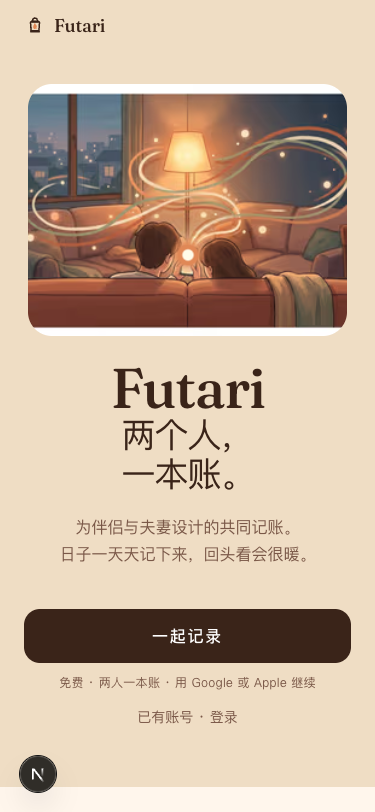
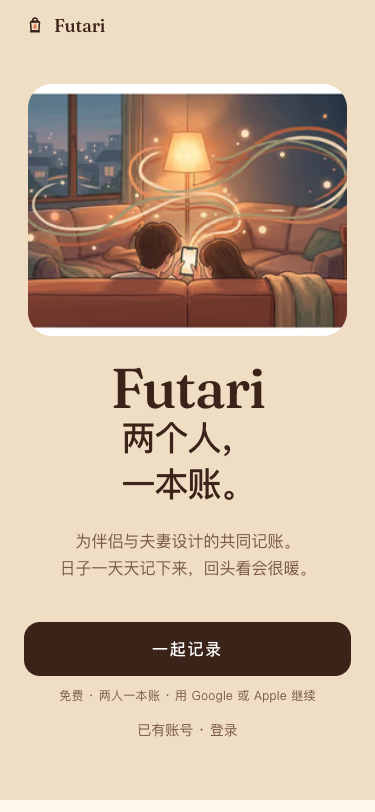
fix(design): 首頁、記帳首頁的襯線標題也套中日文字重和行高 (#1849)
這些標題的字型寫在 inline style，沒有 .font-serif，原本的規則對不到。
新增 .cjk-h（不放 layer，蓋得過 leading-*／font-* utility），斷行規則
也一起套。首頁 tagline 的 400／1.15 從 inline 搬到 class，en 不變。
擋渲染 CSS gzip +27 B。

diff --git a/app/[locale]/_landing/Landing.tsx b/app/[locale]/_landing/Landing.tsx
@@ -175,7 +175,7 @@ export function Landing({ t, signInHref, dashboardHref, androidBetaHref, checkin
             </p>
 
             <h1
-              className="m-0 leading-none md:leading-[1]"
+              className="cjk-h m-0 leading-none md:leading-[1]"
               style={{
                 fontFamily: 'var(--font-fraunces)',
                 fontWeight: 500,
@@ -188,17 +188,15 @@ export function Landing({ t, signInHref, dashboardHref, androidBetaHref, checkin
                   even though per-character it's smaller; lh 1.15 keeps
                   the block tight, letter-spacing -1px tightens CJK rhythm. */}
               <span
-                className="ph md:hidden block text-display-tagline"
+                className="cjk-h ph md:hidden block text-display-tagline font-normal leading-[1.15]"
                 style={{
-                  fontWeight: 400,
-                  lineHeight: 1.15,
                   letterSpacing: '-1px',
                 }}
                 dangerouslySetInnerHTML={{ __html: phraseHtml(t.taglineHtml) }}
               />
               {/* desktop: tagline as the giant headline */}
               <span
-                className="ph hidden md:inline text-display-tagline-lg"
+                className="cjk-h ph hidden md:inline text-display-tagline-lg"
                 style={{
                   letterSpacing: '-3.5px',
                 }}
@@ -323,7 +321,7 @@ export function Landing({ t, signInHref, dashboardHref, androidBetaHref, checkin
                 {t.featuresKicker}
               </p>
               <h2
-                className="m-0 mt-1.5 text-xl md:text-page"
+                className="cjk-h m-0 mt-1.5 text-xl md:text-page"
                 style={{
                   fontFamily: 'var(--font-fraunces)',
                   fontWeight: 500,
@@ -499,7 +497,7 @@ function MigrateLinksSection({
               {t.migrateSection.kicker}
             </p>
             <h2
-              className="m-0 mt-1.5 text-xl md:text-page"
+              className="cjk-h m-0 mt-1.5 text-xl md:text-page"
               style={{
                 fontFamily: 'var(--font-fraunces)',
                 fontWeight: 500,
@@ -625,7 +623,7 @@ function UseCaseLinksSection({
               {t.useCaseSection.kicker}
             </p>
             <h2
-              className="m-0 mt-1.5 text-xl md:text-page"
+              className="cjk-h m-0 mt-1.5 text-xl md:text-page"
               style={{
                 fontFamily: 'var(--font-fraunces)',
                 fontWeight: 500,

diff --git a/tests/cjk-serif-fallback.test.ts b/tests/cjk-serif-fallback.test.ts
@@ -82,7 +82,28 @@ describe('CJK serif heading fallback stack (#1849)', () => {
       /@layer base\{:is\(h1,h2,h3\)\.font-serif:is\(:lang\(zh\),:lang\(ja\)\)\{font-weight:500;line-height:1\.35\}\}/,
     )
     expect(globalsCss).toMatch(
-      /:is\(\.brand,\.font-serif\):lang\(zh\),:is\(\.brand,\.font-serif\):lang\(ja\)\{line-break:strict;word-break:auto-phrase;font-synthesis-style:none\}/,
+      /:is\(\.brand,\.font-serif,\.cjk-h\):is\(:lang\(zh\),:lang\(ja\)\)\{line-break:strict;word-break:auto-phrase;font-synthesis-style:none\}/,
     )
+  })
+
+  // Landing and dashboard serif titles set their font inline (no .font-serif),
+  // so they opt in with .cjk-h, which is unlayered to beat leading-*/font-*.
+  it('applies the CJK heading rule to inline-serif titles via unlayered .cjk-h', () => {
+    expect(globalsCss).toMatch(/\n\.cjk-h:is\(:lang\(zh\),:lang\(ja\)\)\{font-weight:500;line-height:1\.35\}/)
+    const uses: Array<[string, number]> = [
+      ['app/[locale]/_landing/Landing.tsx', 6],
+      ['app/(dashboard)/dashboard/_components/WelcomeSoloCard.tsx', 1],
+      ['app/(dashboard)/dashboard/_components/AndroidBetaInviteCard.tsx', 1],
+      ['app/(dashboard)/dashboard/_components/PartnerLeftCard.tsx', 1],
+      ['app/(dashboard)/dashboard/_components/ActiveTripBanner.tsx', 1],
+    ]
+    for (const [file, n] of uses) {
+      const src = readFileSync(join(REPO_ROOT, file), 'utf8')
+      expect(src.match(/className="cjk-h /g)?.length, file).toBe(n)
+    }
+    // The landing tagline's 400 / 1.15 moved from inline style to classes so
+    // CJK can override it; en still renders 400 / 1.15.
+    const landing = readFileSync(join(REPO_ROOT, 'app/[locale]/_landing/Landing.tsx'), 'utf8')
+    expect(landing).toContain('text-display-tagline font-normal leading-[1.15]')
   })
 })

diff --git a/app/globals.css b/app/globals.css
@@ -377,8 +377,11 @@ body {
  * simulated mobile LCP from 2.47 s to 2.62 s: one extra round trip, no error,
  * no visual change. The same goes for the landing HTML (gzip ~29.1 KB). */
 @layer base{:is(h1,h2,h3).font-serif:is(:lang(zh),:lang(ja)){font-weight:500;line-height:1.35}}
+/* .cjk-h: serif titles whose font is set inline (landing, dashboard cards), so
+ * no .font-serif. Unlayered so it beats leading-* and font-* utilities. */
+.cjk-h:is(:lang(zh),:lang(ja)){font-weight:500;line-height:1.35}
 .brand{display:contents}
-:is(.brand,.font-serif):lang(zh),:is(.brand,.font-serif):lang(ja){line-break:strict;word-break:auto-phrase;font-synthesis-style:none}
+:is(.brand,.font-serif,.cjk-h):is(:lang(zh),:lang(ja)){line-break:strict;word-break:auto-phrase;font-synthesis-style:none}
 .brand :is(h1,h2,h3,dt,p,li,dd){text-wrap:balance}
 /* Kill the grey tap flash Android Chrome paints over tapped controls. (#713) */
 * { -webkit-tap-highlight-color: transparent; }

diff --git a/app/(dashboard)/dashboard/_components/ActiveTripBanner.tsx b/app/(dashboard)/dashboard/_components/ActiveTripBanner.tsx
@@ -171,7 +171,7 @@ export function ActiveTripBanner({ trips, baseCurrency }: Props) {
                 </div>
               </div>
               <div
-                className="mt-1.5 text-sm leading-relaxed truncate"
+                className="cjk-h mt-1.5 text-sm leading-relaxed truncate"
                 style={{ color: 'var(--ink)', fontFamily: 'var(--font-fraunces)', fontWeight: 500 }}
               >
                 {single ? single.name : pickPlural(locale, trips.length, tr.multipleHeading).replace('{count}', String(trips.length))}

diff --git a/app/(dashboard)/dashboard/_components/WelcomeSoloCard.tsx b/app/(dashboard)/dashboard/_components/WelcomeSoloCard.tsx
@@ -90,7 +90,7 @@ export function WelcomeSoloCard({ epochId }: Props) {
       >
         <div className="flex-1">
           <div
-            className="text-base leading-tight"
+            className="cjk-h text-base leading-tight"
             style={{ fontFamily: 'var(--font-fraunces)', color: 'var(--ink)', fontWeight: 500 }}
           >
             {t.postLeave.welcomeSoloHeading}

diff --git a/app/(dashboard)/dashboard/_components/PartnerLeftCard.tsx b/app/(dashboard)/dashboard/_components/PartnerLeftCard.tsx
@@ -76,7 +76,7 @@ export function PartnerLeftCard({ partnerName, currentEpochId }: Props) {
       >
         <div className="flex-1">
           <div
-            className="text-base leading-tight"
+            className="cjk-h text-base leading-tight"
             style={{ fontFamily: 'var(--font-fraunces)', color: 'var(--ink)', fontWeight: 500 }}
           >
             {heading}

diff --git a/app/(dashboard)/dashboard/_components/AndroidBetaInviteCard.tsx b/app/(dashboard)/dashboard/_components/AndroidBetaInviteCard.tsx
@@ -77,7 +77,7 @@ export function AndroidBetaInviteCard() {
       >
         <div className="flex-1">
           <div
-            className="text-base leading-tight"
+            className="cjk-h text-base leading-tight"
             style={{ fontFamily: 'var(--font-fraunces)', color: 'var(--ink)', fontWeight: 500 }}
           >
             {t.androidBetaInvite.heading}
